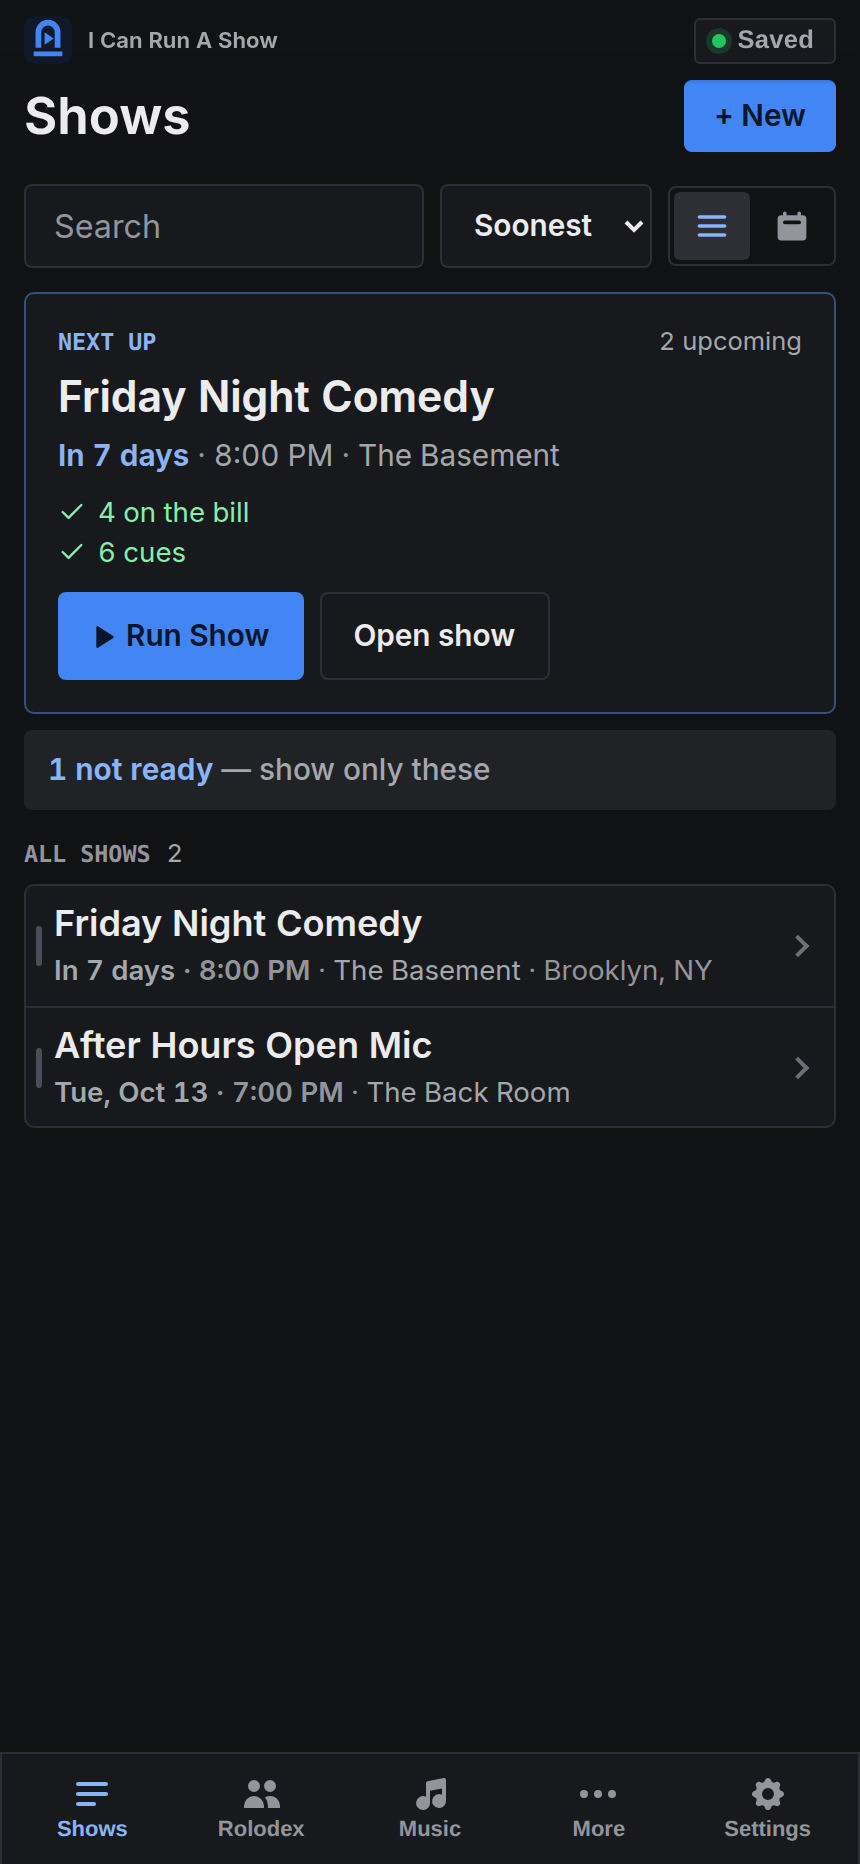
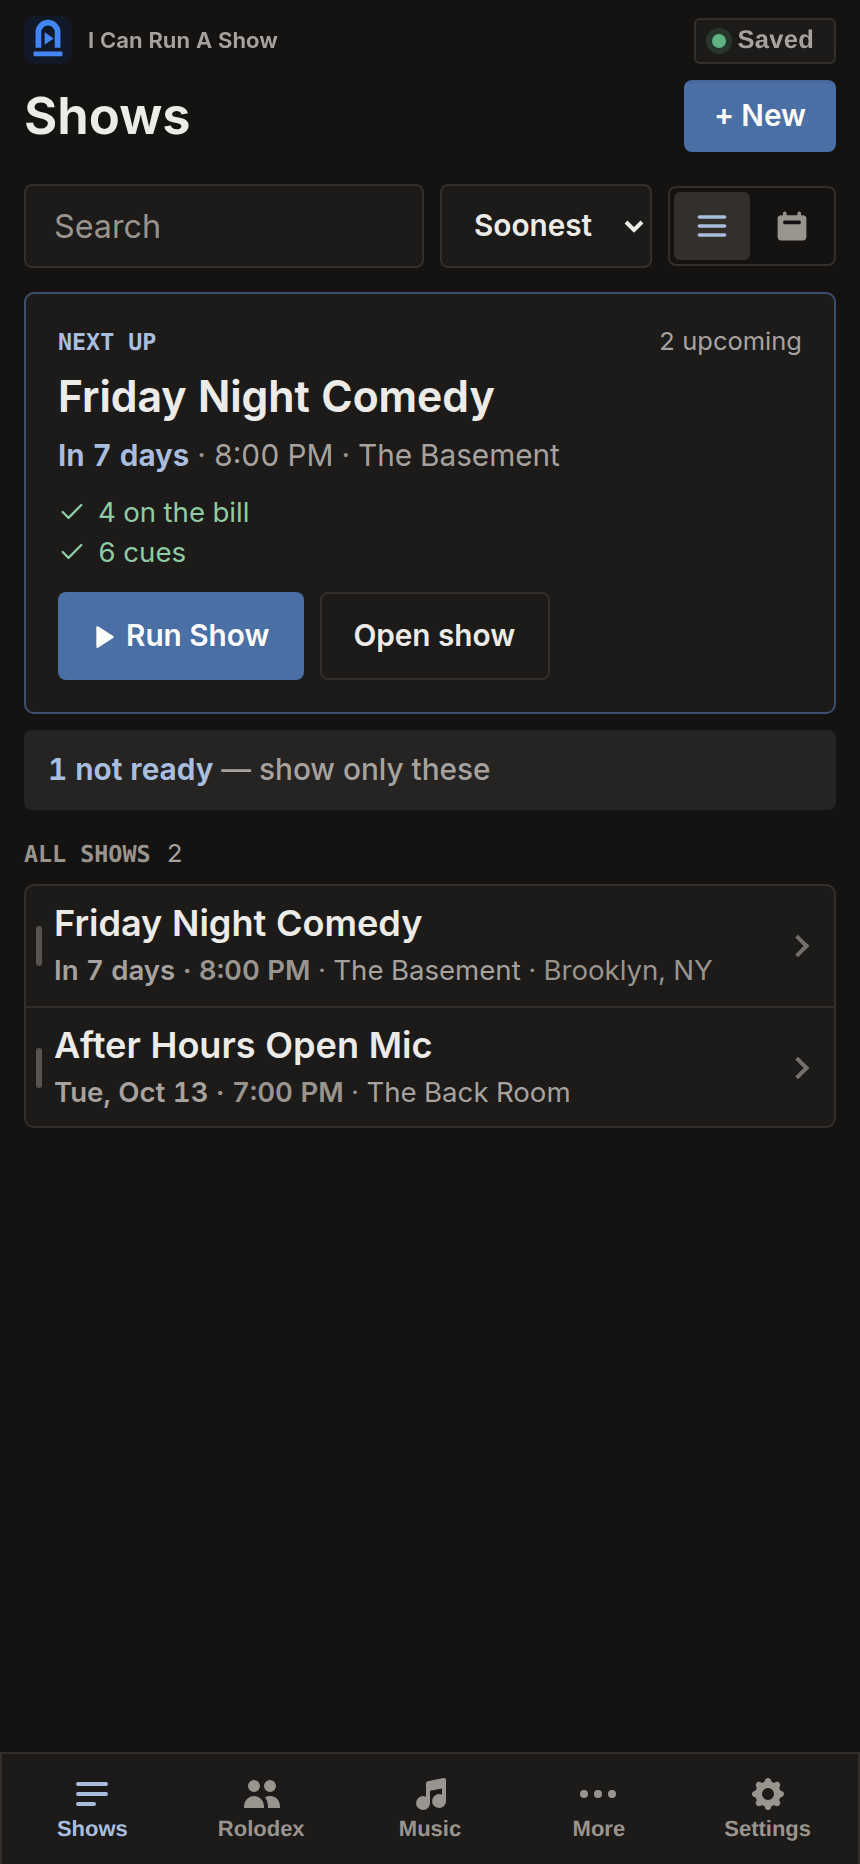
Give the app a professional booker palette (#305)
Warm paper and graphite neutrals with one deep ink-blue accent in place of
the bright consumer blue: the colours of a ledger and a signed contract.
Dark mode uses a steel ink blue with white text, Run Show follows the same
accent on warm charcoal, and the browser chrome colours, theme swatches and
README screenshots match.

Claude-Session: https://claude.ai/code/session_01Vfw99CKChoDHwub351pNLq

diff --git a/src/utility.css b/src/utility.css
@@ -13,19 +13,29 @@
    untouched; the 44px finger minimum on touch screens still applies. */
 
 :root {
-  --bg: #f4f4f5;
-  --backdrop: #e7e7ea;
+  /* Booker palette: warm paper and graphite with one deep ink-blue accent —
+     the colours of a ledger and a signed contract, not of a consumer app. */
+  --bg: #f5f4f1;
+  --backdrop: #e9e7e2;
   --surface: #ffffff;
-  --surface-strong: #efeff1;
-  --text: #121316;
-  --text-muted: #50535a;
-  --text-soft: #5c5f66;
-  --border: #d9d9de;
-  --border-strong: #a3a6ad;
-  --primary-soft: #eaf0fb;
-  --primary-soft-border: #b3c6ea;
-  --header-bg: #f4f4f5;
-  --segment-track: #e4e4e7;
+  --surface-strong: #efede8;
+  --text: #1c1b19;
+  --text-muted: #57534e;
+  --text-soft: #615c56;
+  --border: #dcd9d2;
+  --border-strong: #a8a29e;
+  --primary: #2f4f7f;
+  --primary-pressed: #263f66;
+  --primary-bright: #5b7bab;
+  --primary-soft: #e8edf5;
+  --primary-soft-border: #b7c5dc;
+  --primary-text: #2f4f7f;
+  --on-primary: #ffffff;
+  --success: #2f7d4f;
+  --success-strong: #256440;
+  --success-text: #25603f;
+  --header-bg: #f5f4f1;
+  --segment-track: #e7e5df;
   --segment-chip: #ffffff;
 
   --shadow-sm: none;
@@ -45,20 +55,27 @@
 }
 
 [data-theme="dark"] {
-  --bg: #111214;
-  --backdrop: #0b0c0d;
-  --surface: #18191c;
-  --surface-strong: #202226;
-  --text: #ececee;
-  --text-muted: #a4a7ad;
-  --text-soft: #92959c;
-  --border: #2d2f34;
-  --border-strong: #4a4d54;
-  --primary-soft: #1a2436;
-  --primary-soft-border: #34507e;
-  --header-bg: #111214;
-  --segment-track: #111214;
-  --segment-chip: #2d2f34;
+  --bg: #141312;
+  --backdrop: #0d0c0b;
+  --surface: #1c1b19;
+  --surface-strong: #262422;
+  --text: #ecebe8;
+  --text-muted: #a8a29e;
+  --text-soft: #9a948e;
+  --border: #33302c;
+  --border-strong: #57534e;
+  --primary: #4a6fa5;
+  --primary-pressed: #5a80b8;
+  --primary-bright: #b8c9e3;
+  --primary-soft: #1d2533;
+  --primary-soft-border: #3d4f6e;
+  --primary-text: #a9bedf;
+  --on-primary: #ffffff;
+  --success: #5fb281;
+  --success-text: #8fcca6;
+  --header-bg: #141312;
+  --segment-track: #141312;
+  --segment-chip: #33302c;
   --shadow-lg: 0 6px 18px rgba(0, 0, 0, 0.45);
   --shadow-xl: 0 10px 28px rgba(0, 0, 0, 0.5);
 }
@@ -155,15 +172,17 @@ body {
    the dark was navy. Neutral charcoal, so the only colours on it are the
    ones that mean something: the running clock's amber and red. */
 .run-show.run-show {
-  --rs-panel: var(--show-surface, #17181b);
+  --rs-blue: var(--show-accent, #4a6fa5);
+  --rs-blue-text: #a9bedf;
+  --rs-panel: var(--show-surface, #1a1917);
   --rs-panel-border: rgb(255 255 255 / 9%);
-  --rs-deck: var(--show-surface-strong, #1f2024);
+  --rs-deck: var(--show-surface-strong, #23211f);
   --rs-deck-edge: rgb(255 255 255 / 14%);
-  --rs-dim: #a4a7ad;
-  --text: #ececee;
-  --text-muted: #a4a7ad;
-  --text-soft: #a4a7ad;
-  background: var(--show-backdrop, #0e0f11);
+  --rs-dim: #a8a29e;
+  --text: #ecebe8;
+  --text-muted: #a8a29e;
+  --text-soft: #a8a29e;
+  background: var(--show-backdrop, #100f0e);
 }
 
 /* The night's timeline: blocks are outlined boxes on a grey fill, with the
@@ -232,3 +251,9 @@ body {
   }
   .bottom-nav:popover-open .bottom-nav__item--active .bottom-nav__item-icon { color: var(--primary-text); }
 }
+
+/* Run Show's controls follow the ink accent too, so the one bright thing on
+   a dark stage-side screen is the clock, not a consumer-blue button. */
+.rs-btn--start, .rs-btn--start:hover:not(:disabled) { background: #4a6fa5; border-color: #4a6fa5; color: #ffffff; }
+.run-show .rs-music-card__play:hover:not(:disabled) { background: #5a80b8; border-color: #5a80b8; }
+.run-show .rs-fade__slider:focus-visible { outline-color: #a9bedf; }

diff --git a/src/components/RunShowAppearance.css b/src/components/RunShowAppearance.css
@@ -14,7 +14,7 @@
   --text: #f3f6fc;
   --text-muted: #a6b3c7;
   --text-soft: #a6b3c7;
-  background: var(--show-backdrop, #0e0f11);
+  background: var(--show-backdrop, #100f0e);
   color: var(--text);
   font-family: 'Inter', -apple-system, BlinkMacSystemFont, 'Segoe UI', sans-serif;
   color-scheme: dark;
@@ -22,7 +22,7 @@
 
 .run-show .run-show__bar {
   padding: calc(12px + env(safe-area-inset-top)) 24px 12px;
-  background: var(--show-backdrop, #0e0f11);
+  background: var(--show-backdrop, #100f0e);
   border-color: var(--rs-panel-border);
 }
 
@@ -109,7 +109,7 @@
 
 .run-show .rs-fade,
 .run-show .rs-console__levels {
-  background: var(--show-backdrop, #0e0f11);
+  background: var(--show-backdrop, #100f0e);
   border: 1px solid var(--rs-panel-border);
   border-radius: var(--radius-lg);
   box-shadow: none;
@@ -214,13 +214,13 @@
 .run-show .rs-pad__sub { color: var(--rs-dim); font-size: .6875rem; }
 .run-show .rs-pad__sub--auto { opacity: 1; }
 .run-show .rs-pad__kind,
-.run-show .rs-pad__state { background: #0e0f11; color: var(--text); border-color: var(--rs-deck-edge); }
+.run-show .rs-pad__state { background: #100f0e; color: var(--text); border-color: var(--rs-deck-edge); }
 .run-show .rs-pad--playing .rs-pad__face { border-color: var(--rs-green); box-shadow: 0 0 0 2px rgb(74 222 128 / 20%); }
 .run-show .rs-pad--playing .rs-pad__label { color: var(--rs-green); }
 .run-show .rs-pad--playing .rs-pad__state { background: var(--rs-green); border-color: var(--rs-green); color: #052e16; }
 .run-show .rs-pad--loading .rs-pad__face { border-color: var(--rs-amber); box-shadow: 0 0 0 2px rgb(251 191 36 / 20%); }
 .run-show .rs-pad--loading .rs-pad__label { color: var(--rs-amber); }
-.run-show .rs-pad--loading .rs-pad__state { background: #0e0f11; border-color: var(--rs-amber); color: var(--rs-amber); }
+.run-show .rs-pad--loading .rs-pad__state { background: #100f0e; border-color: var(--rs-amber); color: var(--rs-amber); }
 
 .run-show .rs-clock { padding: 28px 24px; }
 .run-show .rs-clock__head { font-size: .6875rem; letter-spacing: .06em; }
@@ -237,7 +237,7 @@
 .run-show .rs-btn { background: var(--rs-deck); border-color: var(--rs-deck-edge); border-radius: var(--radius-md); color: var(--text); font-weight: 600; }
 .run-show .rs-btn:hover:not(:disabled) { background: #2a3850; }
 .run-show .rs-btn--start,
-.run-show .rs-btn--start:hover:not(:disabled) { background: #f3f6fc; border-color: #f3f6fc; color: #0e0f11; filter: none; }
+.run-show .rs-btn--start:hover:not(:disabled) { background: #f3f6fc; border-color: #f3f6fc; color: #100f0e; filter: none; }
 .run-show .rs-btn--pause { background: #3d321b; border-color: #9c7b2d; color: var(--rs-amber); }
 .run-show .rs-btn--pause:hover:not(:disabled) { background: #514322; }
 .run-show .rs-nudge { margin-top: 12px; }

diff --git a/src/utils/theme.ts b/src/utils/theme.ts
@@ -13,14 +13,14 @@ export const COLOR_SCHEMES: {
   swatch: string; // accent color
   bg: string; // background color, for the swatch preview
 }[] = [
-  { id: 'dark', label: 'Dark', description: 'Default', swatch: '#4285f4', bg: '#111827' },
-  { id: 'light', label: 'Light', description: 'For bright rooms', swatch: '#4285f4', bg: '#f6f8fc' },
+  { id: 'dark', label: 'Dark', description: 'Default', swatch: '#4a6fa5', bg: '#141312' },
+  { id: 'light', label: 'Light', description: 'For bright rooms', swatch: '#2f4f7f', bg: '#f5f4f1' },
 ];
 
 /** The browser/PWA chrome color for each scheme (matches --bg). */
 const THEME_COLORS: Record<ColorScheme, string> = {
-  light: '#f6f8fc',
-  dark: '#111827',
+  light: '#f5f4f1',
+  dark: '#141312',
 };
 
 const STORAGE_KEY = 'showrunner:theme';

diff --git a/index.html b/index.html
@@ -7,7 +7,7 @@
       name="viewport"
       content="width=device-width, initial-scale=1.0, viewport-fit=cover"
     />
-    <meta name="theme-color" content="#111827" />
+    <meta name="theme-color" content="#141312" />
 
     <!-- Primary SEO -->
     <title>I Can Run A Show — Live-Show Management for Comedians &amp; Promoters</title>
@@ -109,7 +109,7 @@
         display: flex;
         align-items: center;
         justify-content: center;
-        background: #111827;
+        background: #141312;
         transition: opacity 0.2s ease;
       }
       #boot-splash.boot-splash--hidden {

diff --git a/src/design.css b/src/design.css
@@ -78,7 +78,7 @@
 }
 
 /* Live mode remains dark in both themes; amber and red retain timer meaning. */
-.run-show { background: #0e0f11; --rs-deck: #1f2024; --rs-deck-edge: #2b2d32; }
+.run-show { background: #100f0e; --rs-deck: #23211f; --rs-deck-edge: #33302c; }
 .rs-btn--start, .rs-btn--start:hover:not(:disabled) { background: #4285f4; border-color: #4285f4; color: #07162c; }
 @media (max-width: 380px) {
   .shows-toolbar { flex-wrap: wrap; }

diff --git a/vite.config.ts b/vite.config.ts
@@ -45,8 +45,8 @@ export default defineConfig({
         name: 'I Can Run A Show',
         short_name: 'Run A Show',
         description: 'Live-show management for comedians, drag promoters, and variety show producers.',
-        theme_color: '#111827',
-        background_color: '#111827',
+        theme_color: '#141312',
+        background_color: '#141312',
         display: 'standalone',
         orientation: 'portrait',
         scope: '/',

diff --git a/README.md b/README.md
@@ -50,7 +50,7 @@
 
 ## Screenshots
 
-Try it live at **[icanrunashow.com](https://icanrunashow.com)**. These screenshots show the utility design (neutral greys, flat panels, small corners), the desktop hamburger menu, and the phone bottom bar. They are captured from the local production build with sample data using `npm run screenshots` (see [docs/screenshots/CAPTURE.md](docs/screenshots/CAPTURE.md)).
+Try it live at **[icanrunashow.com](https://icanrunashow.com)**. These screenshots show the booker palette (warm paper and graphite with a deep ink-blue accent, flat panels, small corners), the desktop hamburger menu, and the phone bottom bar. They are captured from the local production build with sample data using `npm run screenshots` (see [docs/screenshots/CAPTURE.md](docs/screenshots/CAPTURE.md)).
 
 <p align="center">
   <img src="docs/screenshots/desktop-shows.png" width="100%" alt="Desktop dashboard with the navigation tucked behind a hamburger menu" />
